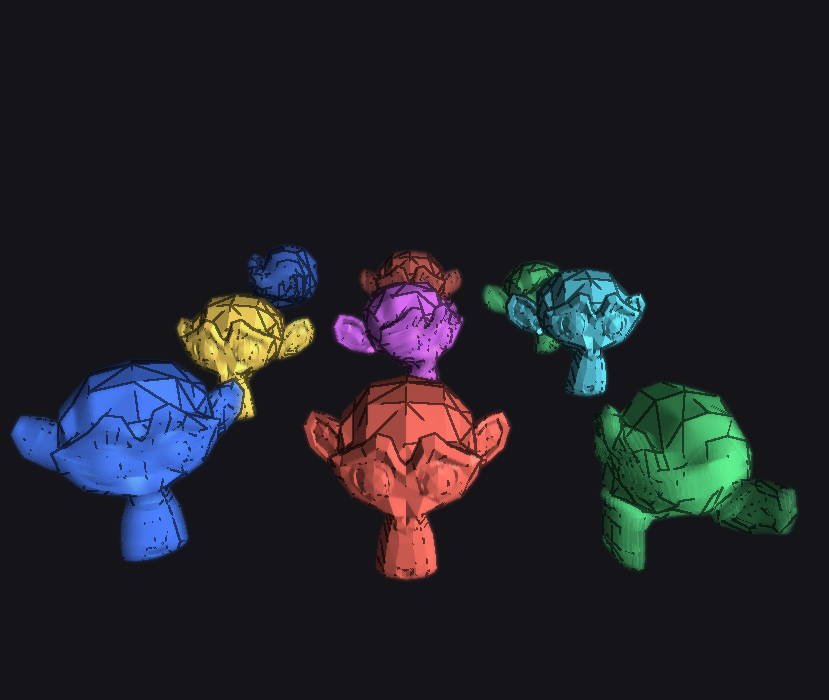
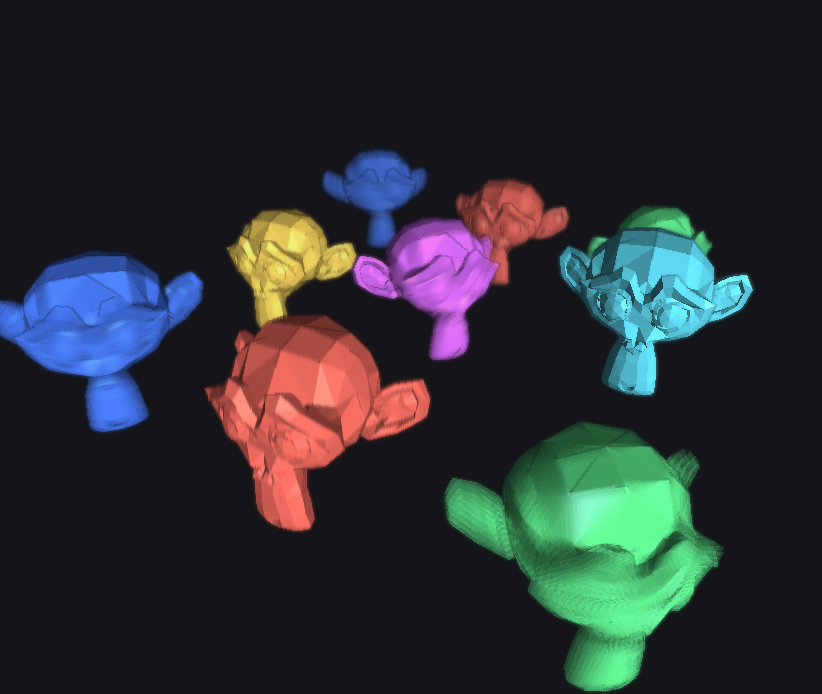
edge tuning for dof and motion blur effect

diff --git a/cpp-folders/src/hello-render-target/hello_multi_pass.cpp b/cpp-folders/src/hello-render-target/hello_multi_pass.cpp
@@ -70,8 +70,8 @@ static const float MB_MAX_PIXELS = 40.0f; // clamp in pixels (canvas coords)
 // OUTLINE PASS CONFIG
 // ===============================
 static const int   EDGE_RADIUS    = 1;       // 1 or 2
-static const float EDGE_THRESHOLD = 0.35f;   // smaller = more edges
-static const float EDGE_STRENGTH  = 0.55f;   // 0..1 (higher = darker lines)
+static const float EDGE_THRESHOLD = 0.75f;   // smaller = more edges
+static const float EDGE_STRENGTH  = 0.15f;   // 0..1 (higher = darker lines)
 
 // ===============================
 // FOG PASS CONFIG
